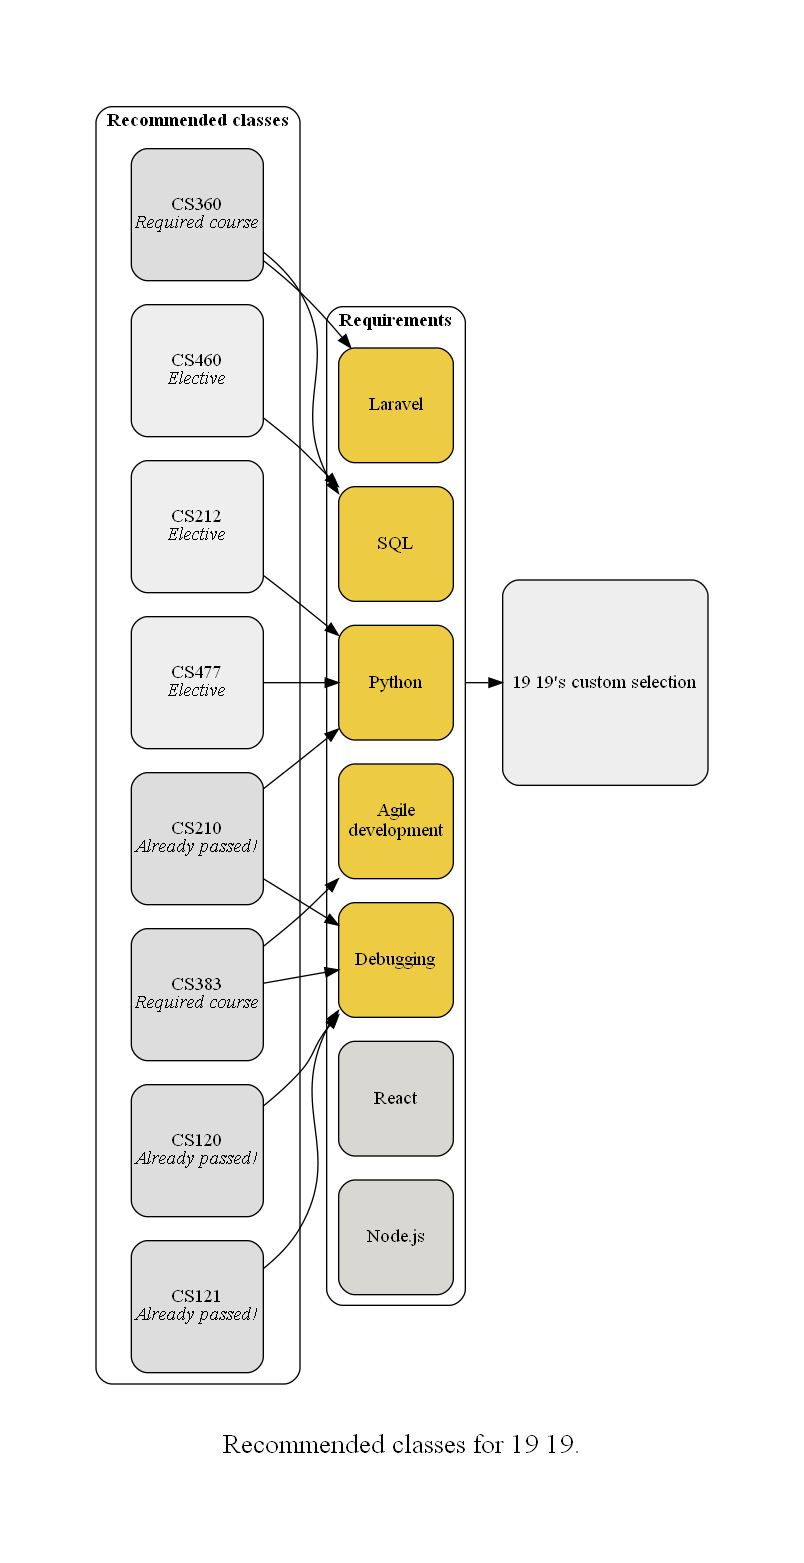
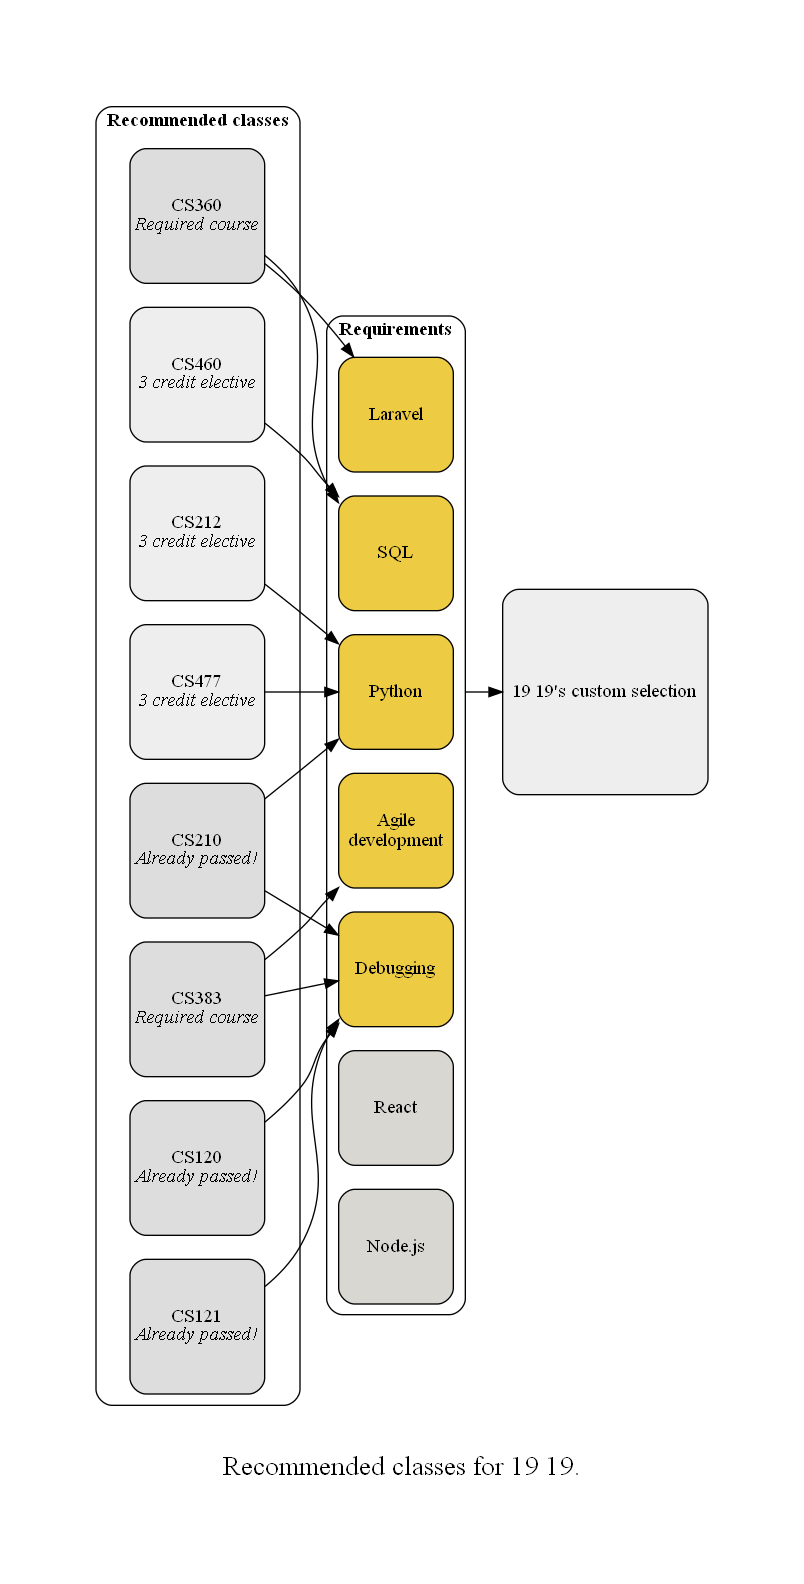
Add credits to recommendations graph

diff --git a/python/drawgraphs.py b/python/drawgraphs.py
@@ -130,8 +130,8 @@ def print_recommendations():
     e.attr(overlap='scale', rankdir='LR', pad='1', compound='true')
     
     cursor.execute(q.get_selection(id))
-    if (cursor != None):
-        company = cursor.fetchone()
+    company = cursor.fetchone()
+    if (company != None):
         
         e.node('c' + str(company[0]), company[1], fillcolor=colors.LIGHT)
         
@@ -147,7 +147,7 @@ def print_recommendations():
                 elif (row[1] != 0):
                     b.node(row[0], '<' + row[0] + '<br/><i>Required course</i>>', fillcolor=colors.LIGHT2, fixedsize='shape', width='1.4')
                 else:
-                    b.node(row[0], '<' + row[0] + '<br/><i>Elective</i>>', fillcolor=colors.LIGHT, fixedsize='shape', width='1.4')
+                    b.node(row[0], '<' + row[0] + '<br/><i>' + str(row[2]) + ' credit elective</i>>', fillcolor=colors.LIGHT, fixedsize='shape', width='1.4')
                 
         cursor.execute(q.GET_TEACHES + ' WHERE Class IN (' + 'SELECT Class FROM (' + q.get_recommended_classes(id) + ') AS C) AND SkillID IN (SELECT S.ID AS SkillID FROM (' + q.get_selected_skills(id) + ') AS S)')
         available = [] # keep track of which skills are actually taught at U of I

diff --git a/python/queries.py b/python/queries.py
@@ -8,7 +8,7 @@ def get_student_query(studentID):
 def get_skills_query(studentID):
     return 'SELECT skills.ID, skills.Name, COUNT(skills.ID) AS Count FROM students, taken, classes, teaches, skills WHERE students.ID=' + studentID + ' AND students.ID=taken.ID AND taken.Class=classes.Class AND classes.Class=teaches.Class AND teaches.SkillID=skills.ID GROUP BY skills.Name'
 def get_recommended_classes(studentID):
-    return 'SELECT DISTINCT C.Class, C.Year FROM classes AS C, teaches AS T, (' + get_selected_skills(studentID) + ') AS A WHERE A.ID=T.SkillID AND C.Class=T.Class'
+    return 'SELECT DISTINCT C.Class, C.Year, C.Credits FROM classes AS C, teaches AS T, (' + get_selected_skills(studentID) + ') AS A WHERE A.ID=T.SkillID AND C.Class=T.Class'
 def get_selected_skills(studentID):
     return 'SELECT DISTINCT skills.ID, skills.Name FROM requires, selections, skills WHERE selections.CompanyID=requires.CompanyID AND skills.ID=requires.SkillID AND selections.ID=' + studentID
 def get_selection(studentID):
